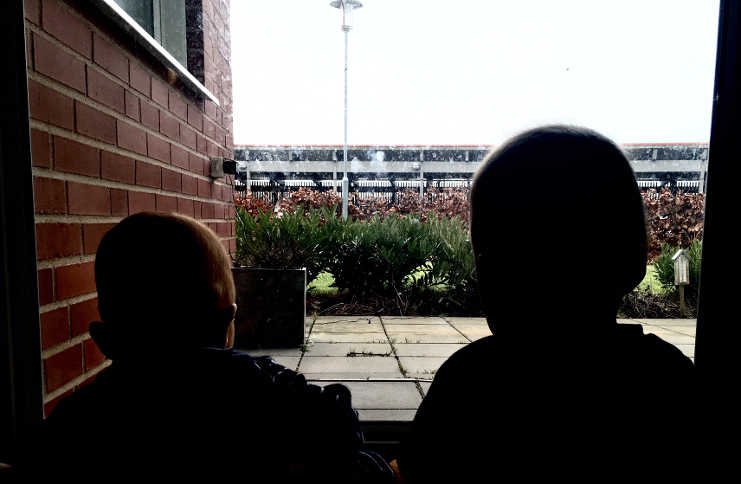
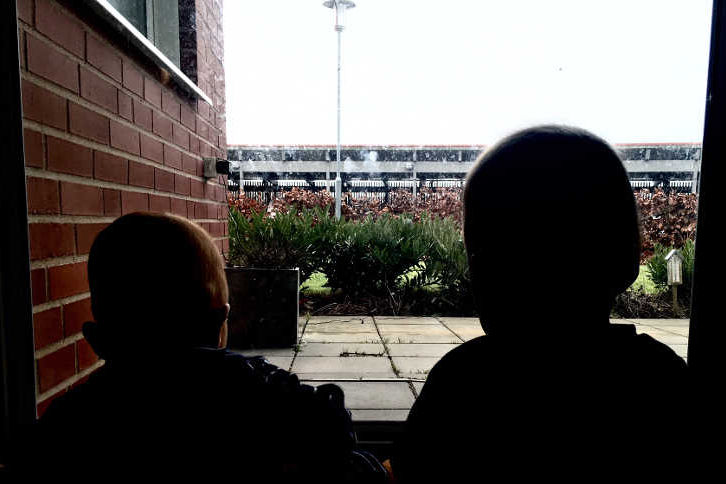
data uri for kids

diff --git a/_posts/2016-01-19-new-domain-revitalize-website-general-update.html b/_posts/2016-01-19-new-domain-revitalize-website-general-update.html
@@ -8,7 +8,8 @@ modified_time: '2016-01-19T13:50:00.008+02:00'
 cached_comment_count: 1
 ---
 
-<img width="741" height="484" data-original="/img/enselic-kids-2016-02-01_1050.jpg" alt="My kids"/>
+<img width="741" height="484" data-original="/img/enselic-kids-2016-02-01_1050.jpg" 
[1 lines of base64/hex data omitted]
 
 <p>Welcome to my new site; both the new domain name <a href="https://setofskills.com">setofskills.com</a> and the new layout. So why change domain? To remove the accidental Google Chrome association <a href="http://www.chromecode.com">chromecode.com</a> got (which I registered 5 years before Google Chrome was released by the way). Since my old site was starting to feel a bit dead due to it being more than 4 years since my last blog post I thought now would be a good time to do this. All blog posts have been ported to the new site though.<p>
 
@@ -16,5 +17,5 @@ cached_comment_count: 1
 
 <p>You might also have noted that <a href="https://dont-go-there.notld">tasktaste.com</a> has been taken offline (and taken over by some SEO company). Its usage was pretty low, and keeping it alive was not worth it. I might resurrect it someday, but then it will be hosted on this domain rather than having a domain on its own.</p>
 
-<p>As for time over for coding, it is still low. I now have two kids to raise. Occasiaonlly I get some code written though, so keep your eyes open for announcements in 1-10 years.
+<p>As for time over for coding, it is still low. I now have two kids to raise. Occasiaonlly I get some code written though, so keep your eyes open for announcements in 1-10 years. 
 </p>
